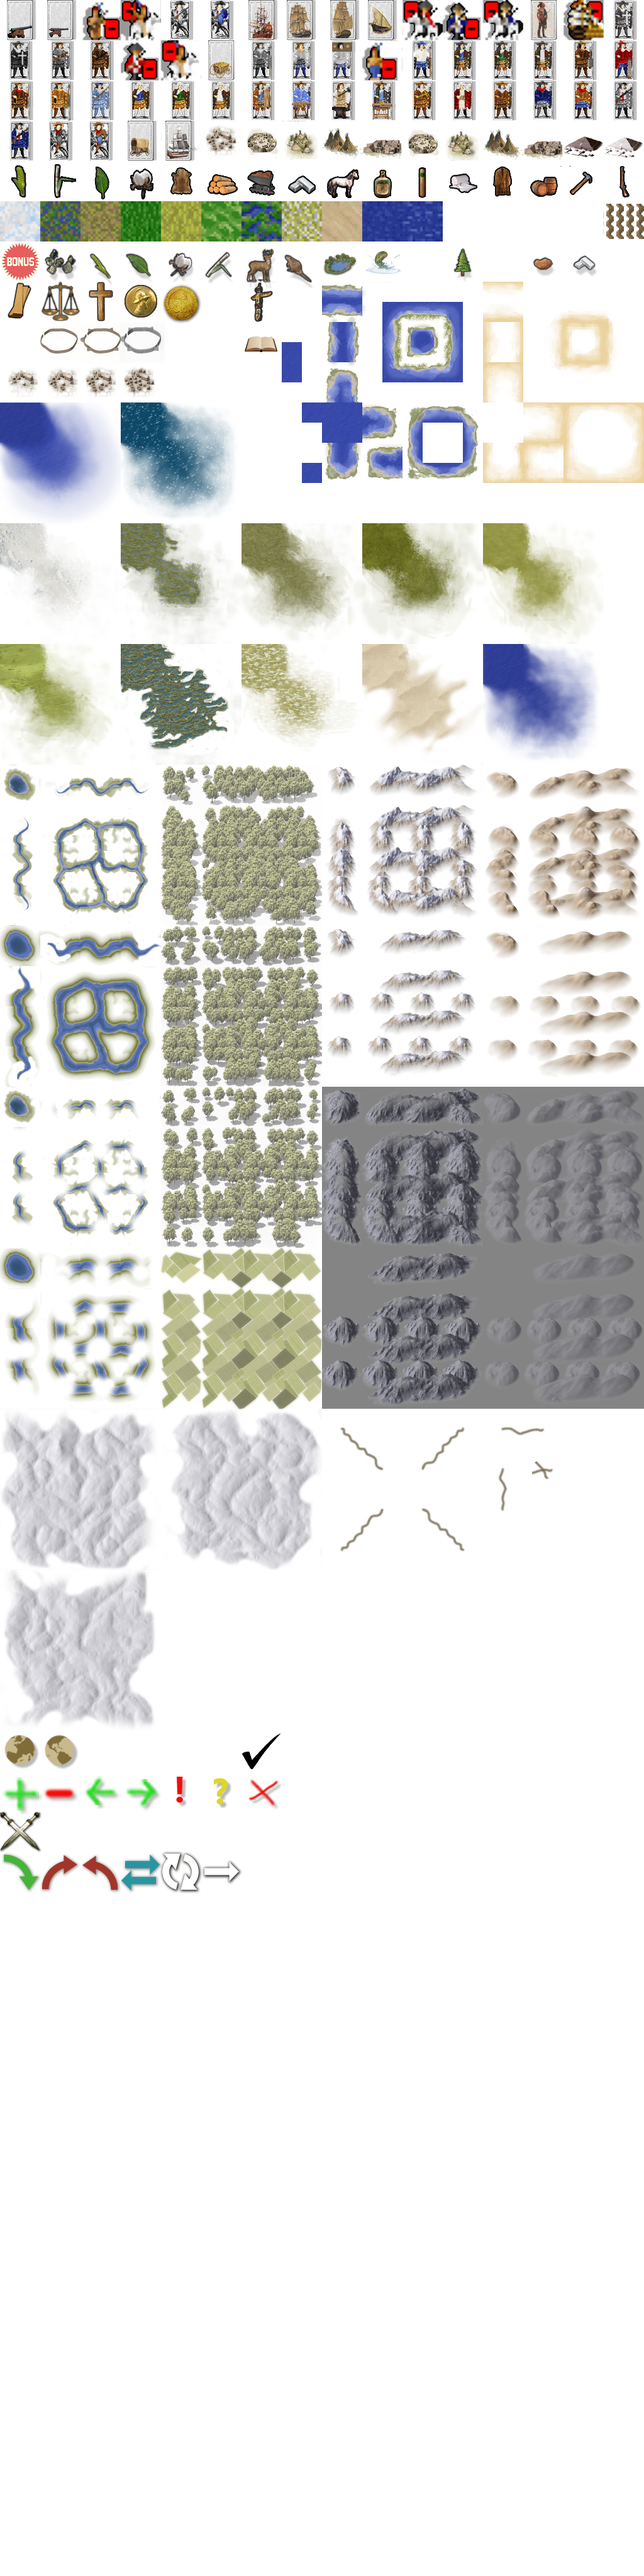
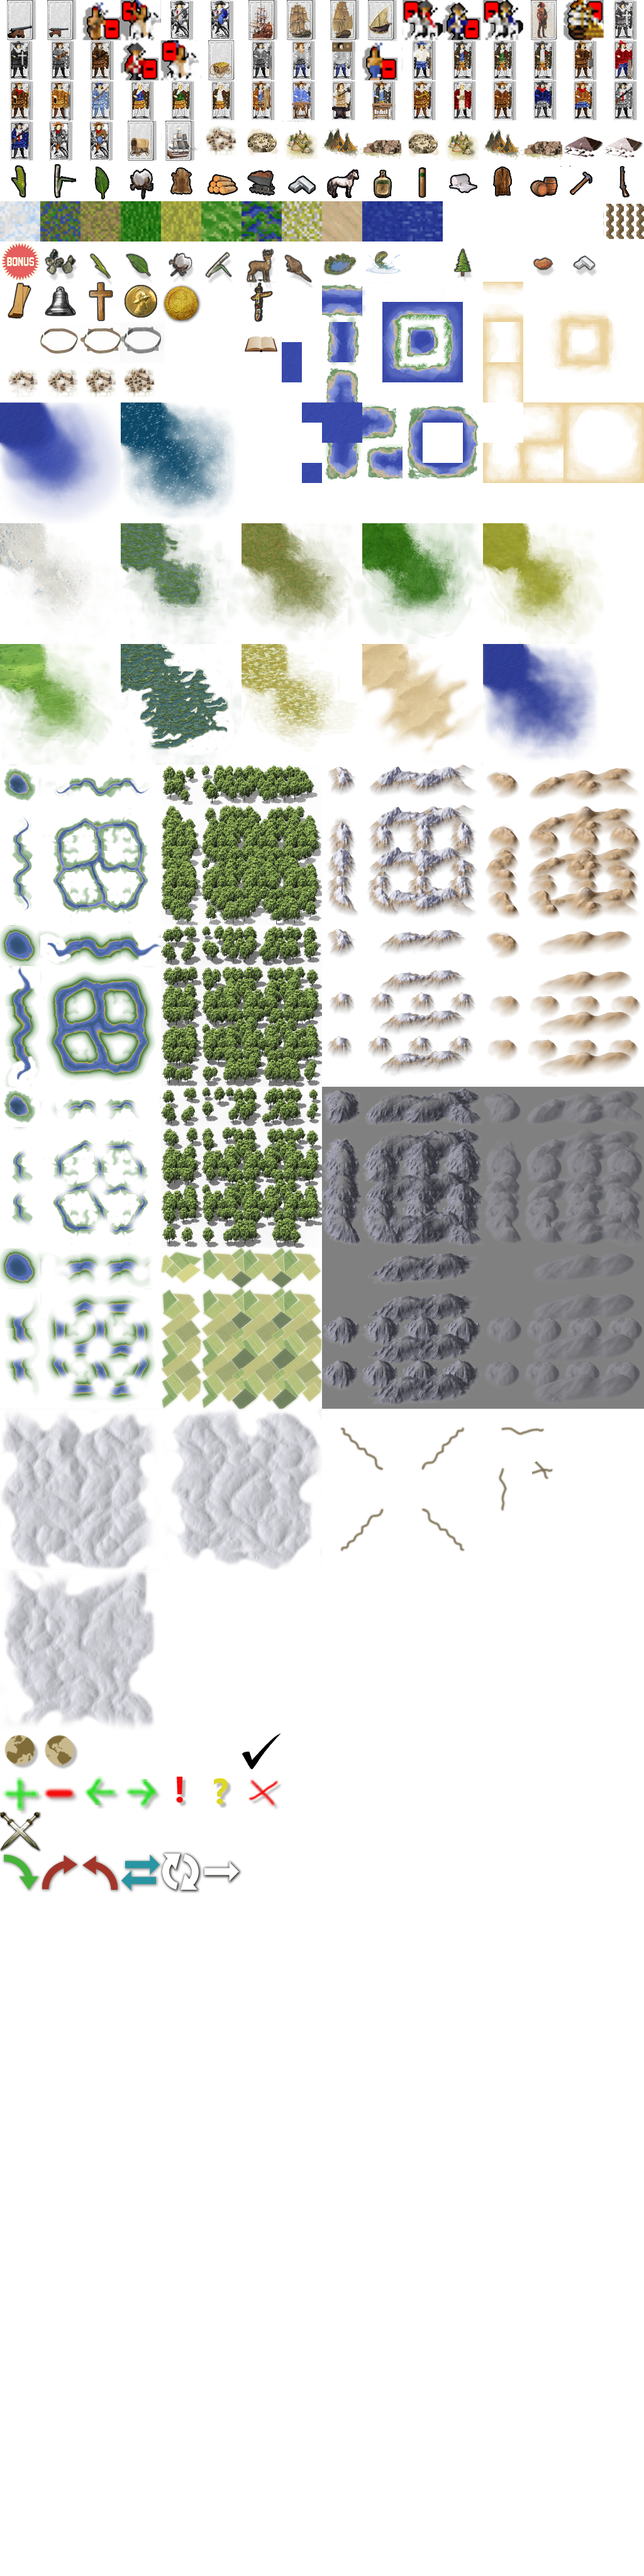
removed seasons

diff --git a/src/js/render/background.js b/src/js/render/background.js
@@ -1,6 +1,5 @@
 import * as PIXI from 'pixi.js'
 import Util from 'util/util'
-import Climate from 'data/climate'
 import Layer from './layer'
 import RenderView from './view'
 import TileCache from './tileCache'
@@ -9,7 +8,6 @@ import MapView from 'render/map'
 import MapEntity from 'entity/map'
 import Message from 'util/message'
 import Tile from 'entity/tile'
-import Time from 'timeline/time'
 
 
 const MAX_TILES = 30000
@@ -21,7 +19,6 @@ let undiscovered = null
 let tiles = null
 let scale = 1
 let renderRequested = false
-let opacityRequested = false
 let visible = true
 let visibleTiles = []
 
@@ -91,12 +88,11 @@ const createSpriteFromFrames = (resource, frames) => frames.map(frame => {
 	return sprite
 })
 
-const mapNames = ['map', 'mapWinter', 'mapSummer']
+const mapName = 'map'
 const createSprite = frames => {
-	const mapName = mapNames[frames[frames.length - 1]]
-	return createSpriteFromFrames(mapName, frames.slice(0, -1))
+	return createSpriteFromFrames(mapName, frames)
 }
-const createSpritesFromTile = tile => createSpriteFromFrames('mapSummer', MapView.instance.assembleTile(tile))
+const createSpritesFromTile = tile => createSpriteFromFrames(mapName, MapView.instance.assembleTile(tile))
 
 const createTiles = tileStacks => tileStacks.map((stack, index) => ({
 	index,
@@ -104,31 +100,17 @@ const createTiles = tileStacks => tileStacks.map((stack, index) => ({
 	stack,
 	container: null,
 	initialized: false,
-	// createSprites: () => stack.frames.map(frame => {
-	// 	const sprite = Resources.sprite('map', { frame: Math.abs(frame) - 1 })
-	// 	sprite.x = stack.position.x
-	// 	sprite.y = stack.position.y
-	// 	sprite.blendMode = frame > 0 ? PIXI.BLEND_MODES.NORMAL : PIXI.BLEND_MODES.OVERLAY
-	// 	return sprite
-	// }),
 	createCachedSprites: () => {
-		let result = []
-		if (MapEntity.get().tiles[index].domain === 'land' || MapEntity.get().tiles[index].coast) {
-			const baseSprite = TileCache.createCachedSprite(createSprite, [...stack.frames, 0])
-			const winterSprite = TileCache.createCachedSprite(createSprite, [...stack.frames, 1])
-			const summerSprite = TileCache.createCachedSprite(createSprite, [...stack.frames, 2])
-			result = [baseSprite, winterSprite, summerSprite].filter(x => !!x)
-		} else {
-			const baseSprite = TileCache.createCachedSprite(createSprite, [...stack.frames, 0])
-			result = [baseSprite].filter(x => !!x)
+		const result = TileCache.createCachedSprite(createSprite, stack.frames)
+		if (result) {		
+			result.position.x = stack.position.x
+			result.position.y = stack.position.y
+
+			return [result]
 		}
 
-		result.forEach(sprite => {			
-			sprite.position.x = stack.position.x
-			sprite.position.y = stack.position.y
-		})
-
-		return result
+		// why would you return nothing here?
+		return []
 	},
 	update: (tile, coords) => {
 		if (tile.initialized) {
@@ -148,8 +130,7 @@ const createTiles = tileStacks => tileStacks.map((stack, index) => ({
 	},
 	initialize: tile => {
 		tile.sprites = tile.createCachedSprites()
-		const indices = Util.range(tile.sprites.length).map(i => TileCache.getTextureIndex([...tile.stack.frames, i]))
-		tile.containers = indices.map(getContainer)
+		tile.containers = tile.stack.frames.map(getContainer)
 		tile.initialized = true
 		tile.dirty = false
 	}
@@ -210,63 +191,6 @@ const resize = () => {
 	render()
 }
 
-// const temperatureToAlpha = temperature => [
-// 	Util.clamp(-(temperature - 5) / 15), // winter
-// 	Util.clamp((temperature - 10) / 10) // summer
-// ]
-
-const winterFrom = Climate.winter.from
-const winterRange = Climate.winter.to - Climate.winter.from
-const summerFrom = Climate.summer.from
-const summerRange = Climate.summer.to - Climate.summer.from
-const alphaFrom = (temperature, i) => i ? Util.clamp((temperature - summerFrom) / summerRange) : Util.clamp((temperature - winterFrom) / winterRange)
-// const alphaFrom = (temperature, i) => i ? Util.clamp((temperature - 10) / 10) : Util.clamp(-(temperature - 5) / 15)
-
-
-// const interpolateColor = (rgb1, rgb2, amount) => {
-// 	amount = Math.max(Math.min(amount, 1), 0)
-// 	const color = []
-
-// 	Util.range(3).forEach(i => {
-// 		const color1 = rgb1[i] * rgb1[i]
-// 		const color2 = rgb2[i] * rgb2[i]
-// 		color[i] = (Math.sqrt(amount * (color2 - color1) + color1)) >> 0
-// 	})
-
-// 	return color
-// }
-
-// const showHeatmap = false
-// const colorToNumber = rgb => rgb[2] + 256*rgb[1] + 256*256*rgb[0]
-
-// const heatmap = () => {
-// 	visibleTiles.forEach(tile => {
-// 		const temperature = Tile.temperature(MapEntity.get().tiles[tile.index], 0)
-// 		tile.sprites.forEach(sprite => {
-// 			sprite.tint = colorToNumber(interpolateColor([0, 0, 0], [256, 256, 256], (temperature + 30) / 70))
-// 		})
-// 	})
-// }
-const opacityTask = () => ({
-	update: () => {
-		opacityRequested = true
-
-		return true
-	}
-})
-
-
-const updateOpacity = () => {
-	const season = Time.season()
-	visibleTiles.forEach(tile => {
-		const temperature = Tile.temperature(MapEntity.get().tiles[tile.index], season)
-		tile.sprites.forEach((sprite, i) => {
-			if (i > 0) {
-				sprite.alpha = alphaFrom(temperature, i-1)
-			}
-		})
-	})
-}
 
 
 const render = () => {
@@ -274,12 +198,6 @@ const render = () => {
 }
 
 const doRenderWork = () => {
-	if (opacityRequested && visible) {
-		opacityRequested = false
-		updateOpacity()
-		layer.app.render()
-	}
-
 	if (!renderRequested || !visible) {
 		return
 	}
@@ -312,11 +230,14 @@ const doRenderWork = () => {
 					tiles[index].initialize(tiles[index])
 				}
 				tiles[index].sprites.forEach((sprite, i) => {
+					if (!tiles[index].containers[i]) {
+						console.warn('no containers', index, tiles[index])
+					}
 					tiles[index].containers[i].addChild(sprite)
 				})
 			})
 		})
-		updateOpacity()
+
 		layer.app.render()
 		renderRequested = false
 	}
@@ -333,6 +254,5 @@ export default {
 	updateCoords,
 	updateScale,
 	createSpritesFromTile,
-	opacityTask,
 	get
 }

diff --git a/gulp/build.js b/gulp/build.js
@@ -120,7 +120,7 @@ gulp.task('assets', resolve => {
 	})
 })
 
-gulp.task('build', gulp.series('climate', gulp.parallel(['pug', 'js', 'sass', 'static', 'assets'])))
+gulp.task('build', gulp.series(gulp.parallel(['pug', 'js', 'sass', 'static', 'assets'])))
 
 gulp.task('watch', () => {
 	gulp.watch('src/pages/**/*.pug', gulp.series('pug'))

diff --git a/src/js/entries/game.js b/src/js/entries/game.js
@@ -59,7 +59,6 @@ const initialize = () => {
 	setInterval(Record.autosave, AUTOSAVE_INTERVAL)
 
 	Time.schedule(Meet.create())
-	Time.schedule(Background.opacityTask())
 
 	const loop = t => {
 		const deltaTime = Math.min(t - timeStamp, 150)
